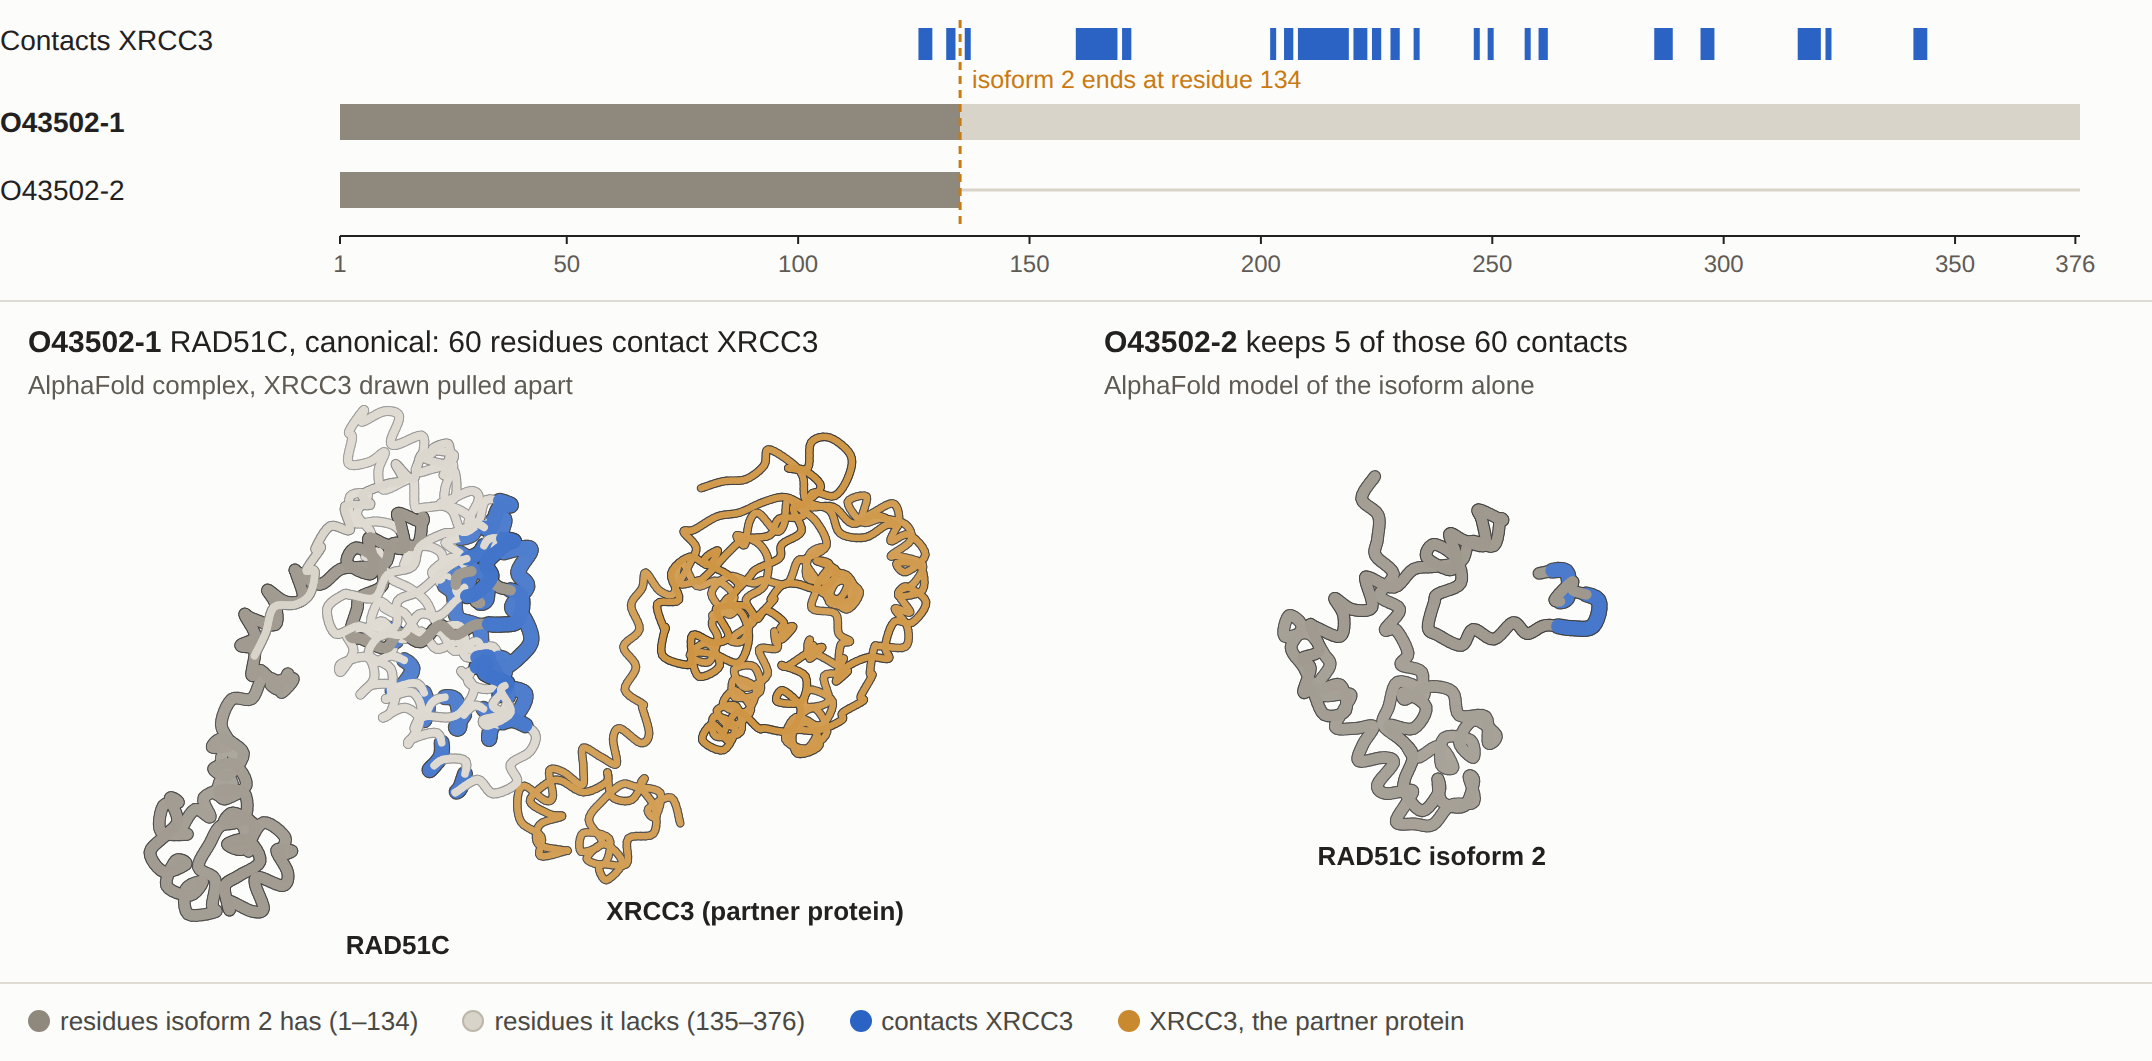
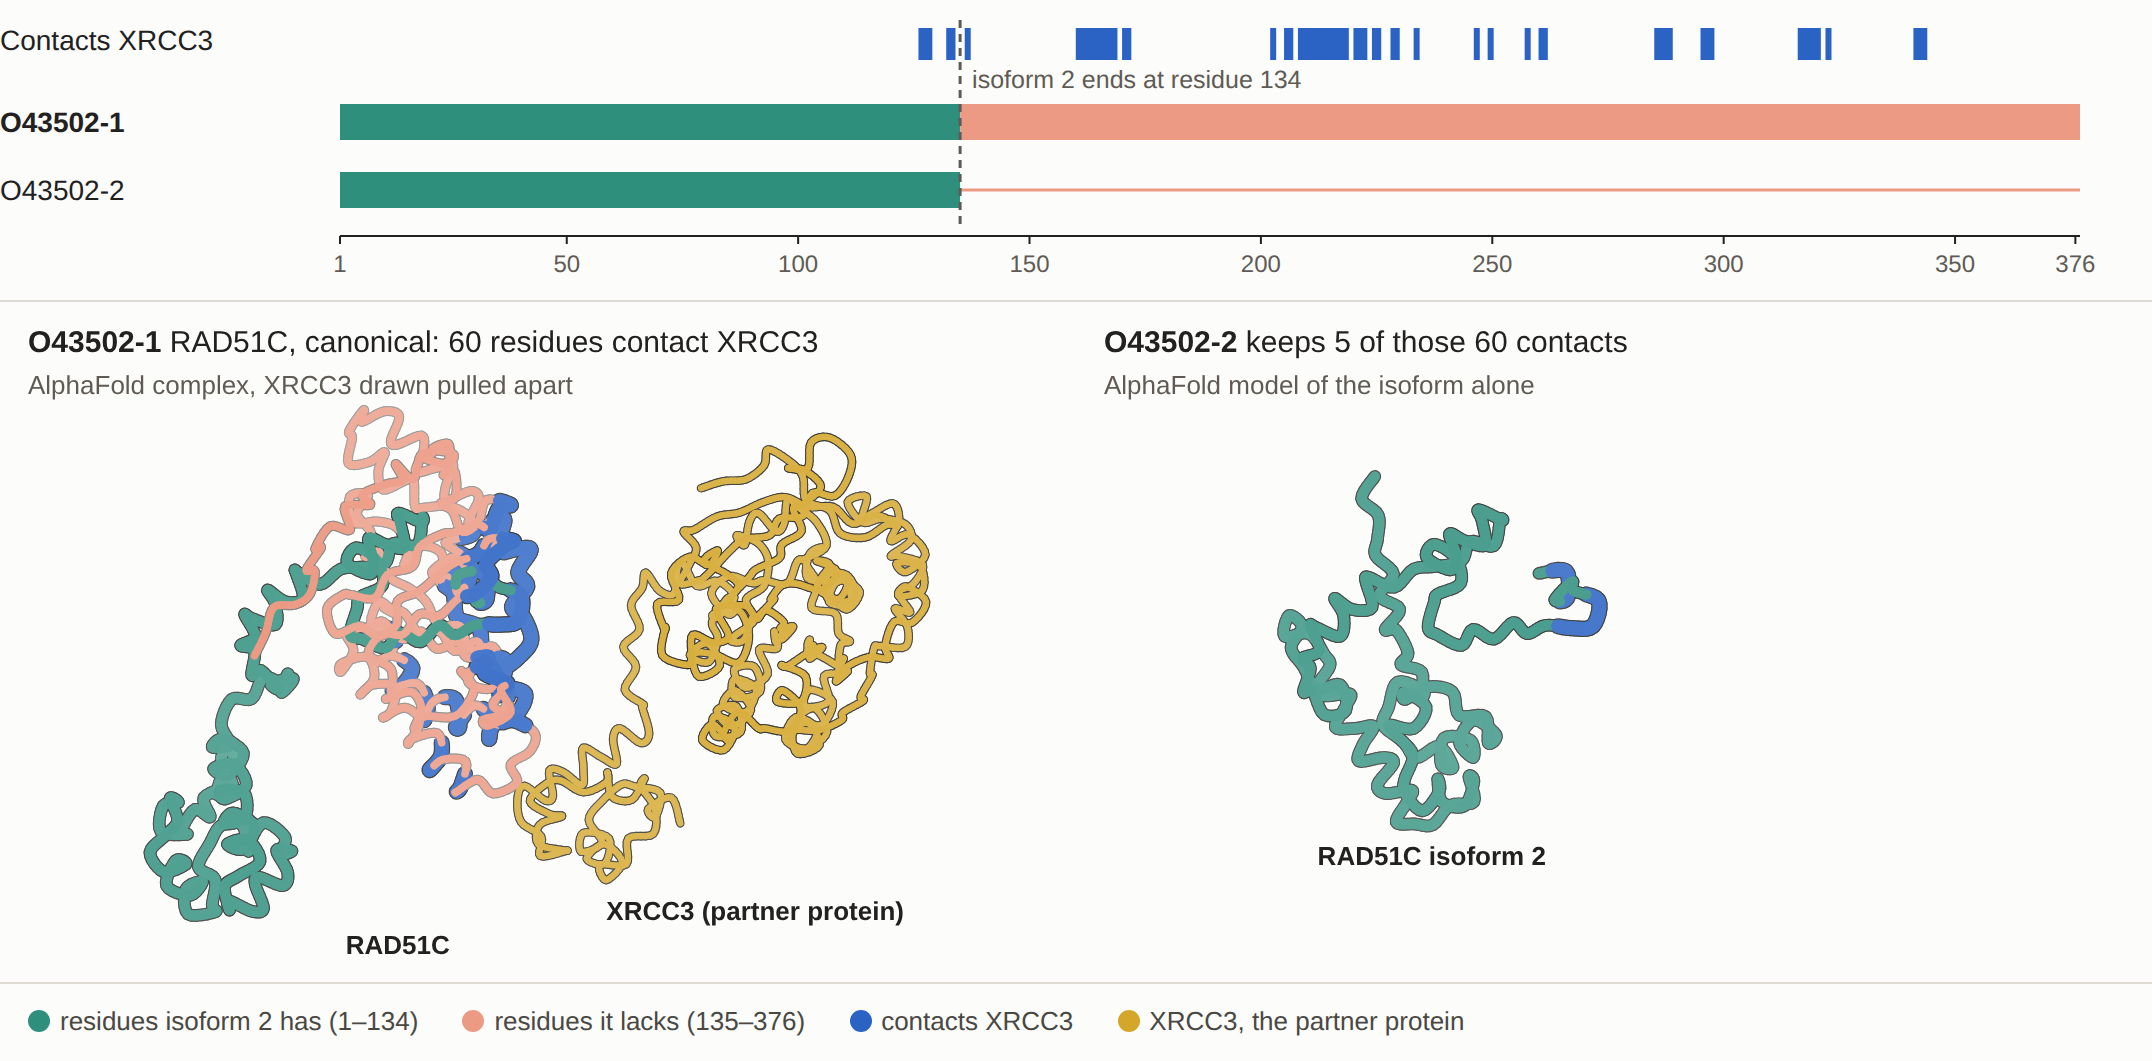
Home hero: a hue for each part of the protein instead of two greys
Dark and pale grey both read as plain protein, so the retained and missing
stretches did not stand out. Teal now marks residues isoform 2 has, salmon the
residues it lacks, blue the contacts and gold the partner, in the schematic
and the structures alike.

diff --git a/web/lib/home-hero.ts b/web/lib/home-hero.ts
@@ -80,8 +80,8 @@ ${bar(52, 1, keptEnd, present)}${bar(52, keptEnd + 1, hero.length, lost)}
 ${label(100, hero.isoformId)}
 ${bar(86, 1, keptEnd, present)}
 <line x1="${boundary}" x2="${x(hero.length + 1)}" y1="95" y2="95" stroke="${lost}" stroke-width="1.5"/>
-<line x1="${boundary}" x2="${boundary}" y1="10" y2="112" stroke="#c97a10" stroke-width="1.5" stroke-dasharray="4 3"/>
-<text x="${boundary + 6}" y="44" font-size="12.5" fill="#c97a10">${isoformName(hero)} ends at residue ${keptEnd}</text>
+<line x1="${boundary}" x2="${boundary}" y1="10" y2="112" stroke="${muted}" stroke-width="1.5" stroke-dasharray="4 3"/>
+<text x="${boundary + 6}" y="44" font-size="12.5" fill="${muted}">${isoformName(hero)} ends at residue ${keptEnd}</text>
 <line x1="${LEFT}" x2="${RIGHT}" y1="118" y2="118" stroke="${ink}"/>${ticks}
 </svg>`
 }

diff --git a/web/lib/home-hero-colours.ts b/web/lib/home-hero-colours.ts
@@ -1,8 +1,8 @@
 export const HERO_COLOURS = {
-  present: '#8f887c',
-  lost: '#d9d4ca',
+  present: '#2e8f7d',
+  lost: '#ec9a84',
   contact: '#2a63c4',
-  partner: '#c9892f',
+  partner: '#d4a62a',
   ink: '#22211f',
   muted: '#5f5b54',
   background: '#fcfcfb',

diff --git a/agent-docs/reference/PAGES.md b/agent-docs/reference/PAGES.md
@@ -17,10 +17,12 @@ files a page reads.
   (`site/preview.png`: RAD51C, `figures/home-hero/`, linked to its page and
   hidden on phones). It is a three-row schematic (the residues that contact
   XRCC3, the canonical bar, isoform 2's bar) above two AlphaFold backbone
-  models, with the same three colours in both: dark for residues isoform 2 has,
-  pale for residues it lacks, blue for contacts. The full gene-page map was
-  tried first and dropped, because its pLDDT, exon and domain rows gave the
-  reader too much to map onto the 3D. The isoform's panel has no partner,
+  models, with the same colours in both: teal for residues isoform 2 has,
+  salmon for residues it lacks, blue for contacts, gold for the partner. Greys
+  for the first two were tried and dropped, because dark and pale grey both
+  read as plain protein and did not separate the parts. The full gene-page map
+  was tried first and dropped, because its pLDDT, exon and domain rows gave
+  the reader too much to map onto the 3D. The isoform's panel has no partner,
   because its model is of the isoform alone, and the picture says "keeps 5 of
   those 60 contacts", never that it does not bind (see
   [CLAIMS.md](CLAIMS.md)). Isoform 2's model is aligned to the canonical's
